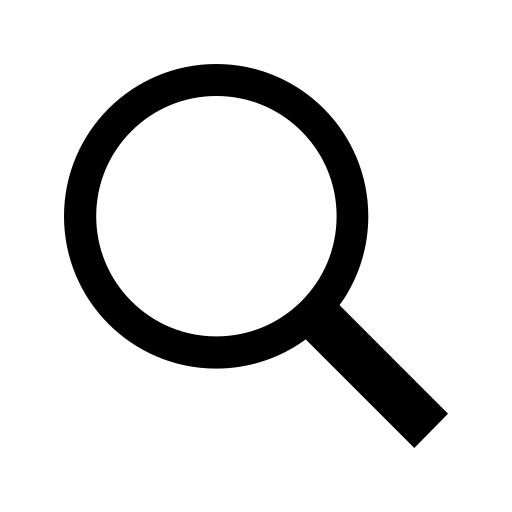
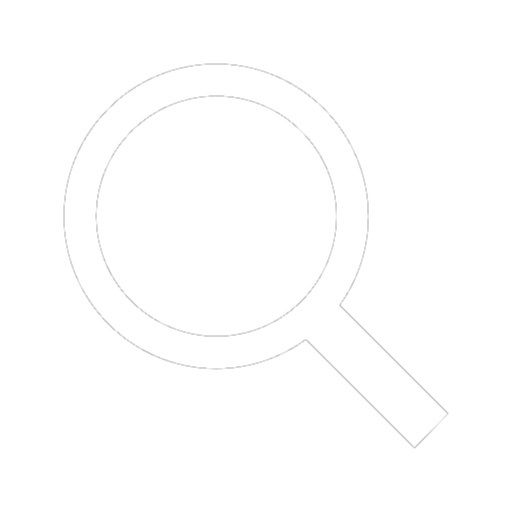
Added Visibility to Search Bar

Changed region(s): [[0.125, 0.125, 0.875, 0.875]]

diff --git a/App.tsx b/App.tsx
@@ -94,6 +94,8 @@ function LoadingScreen(): React.JSX.Element {
 }
 
 function ActivityScreen({ navigateTo }: { navigateTo: (screen: string, params?: any) => void }): React.JSX.Element {
+  const [showSearch, setShowSearch] = useState(false);
+  const [searchText, setSearchText] = useState('');
   const [searchQuery, setSearchQuery] = useState('');
   
   const activities = [
@@ -161,13 +163,26 @@ function ActivityScreen({ navigateTo }: { navigateTo: (screen: string, params?: 
 
   return (
     <View style={styles.AscreenContainer}>
-      <View style={styles.searchBarContainer}>
-        <TextInput
-          style={styles.searchBar}
-          placeholder="Search exercises..."
-          value={searchQuery}
-          onChangeText={setSearchQuery}
-        />
+       <View style={styles.activityHeader}>
+        {showSearch ? (
+          <View style={styles.searchBarContainer}>
+            <TextInput
+              style={styles.searchBar}
+              placeholder="Search activities..."
+              placeholderTextColor="#666"
+              value={searchText}
+              onChangeText={(text) => {
+                setSearchText(text);
+                setSearchQuery(text);
+              }}
+            />
+          </View>
+        ) : (
+          <View style={styles.Aplaceholder} />
+        )}
+        <TouchableOpacity onPress={() => setShowSearch(!showSearch)}>
+          <Image source={require('./assets/search.png')} style={styles.searchIcon} />
+        </TouchableOpacity>
       </View>
       <ScrollView>
         {filteredActivities.map((section, index) => (
@@ -1318,16 +1333,32 @@ const styles = StyleSheet.create({
   },
 
 //Activities
+  activityHeader: {
+    flexDirection: 'row',
+    justifyContent: 'space-between',
+    alignItems: 'center',
+    marginBottom: 10,
+    paddingHorizontal: 16,
+  },
+  searchIcon: {
+    width: 24,
+    height: 24,
+  },
+  Aplaceholder: {
+    flex: 1,
+  },
   searchBarContainer: {
-    padding: 10,
-    backgroundColor: '#4CAF50',
+    flex: 1,
+    marginRight: 10,
   },
   searchBar: {
-    height: 40,
     backgroundColor: '#ffffff',
-    borderRadius: 20,
-    paddingHorizontal: 15,
-    fontSize: 16,
+    height: 40,
+    borderColor: '#ccc',
+    borderWidth: 1,
+    borderRadius: 8,
+    paddingHorizontal: 10,
+    color: '#333', // This sets the text color for both placeholder and typed text
   },
   AscreenContainer: {
     flex: 1,
